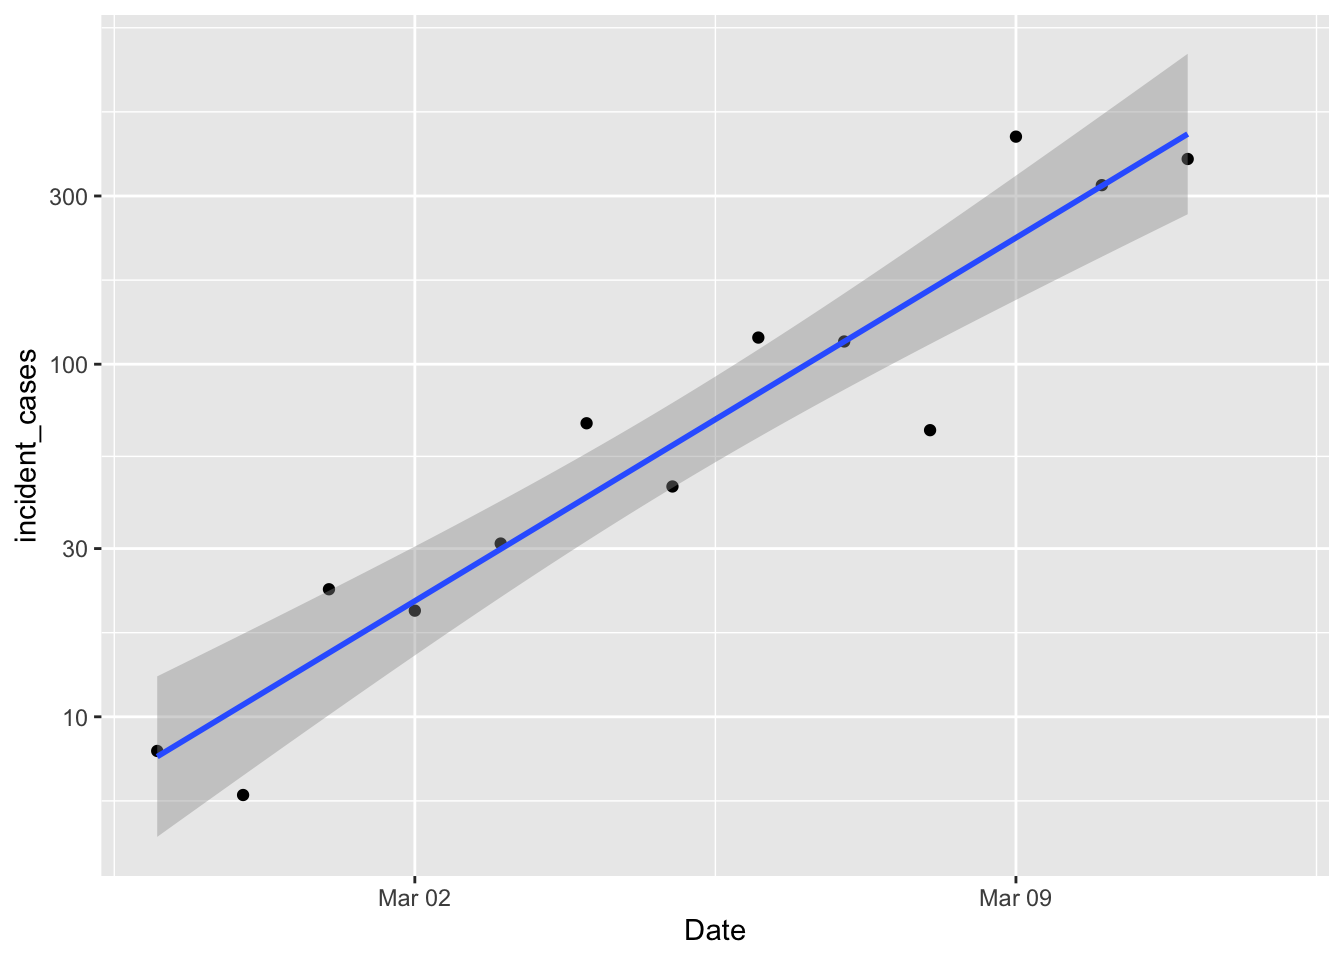
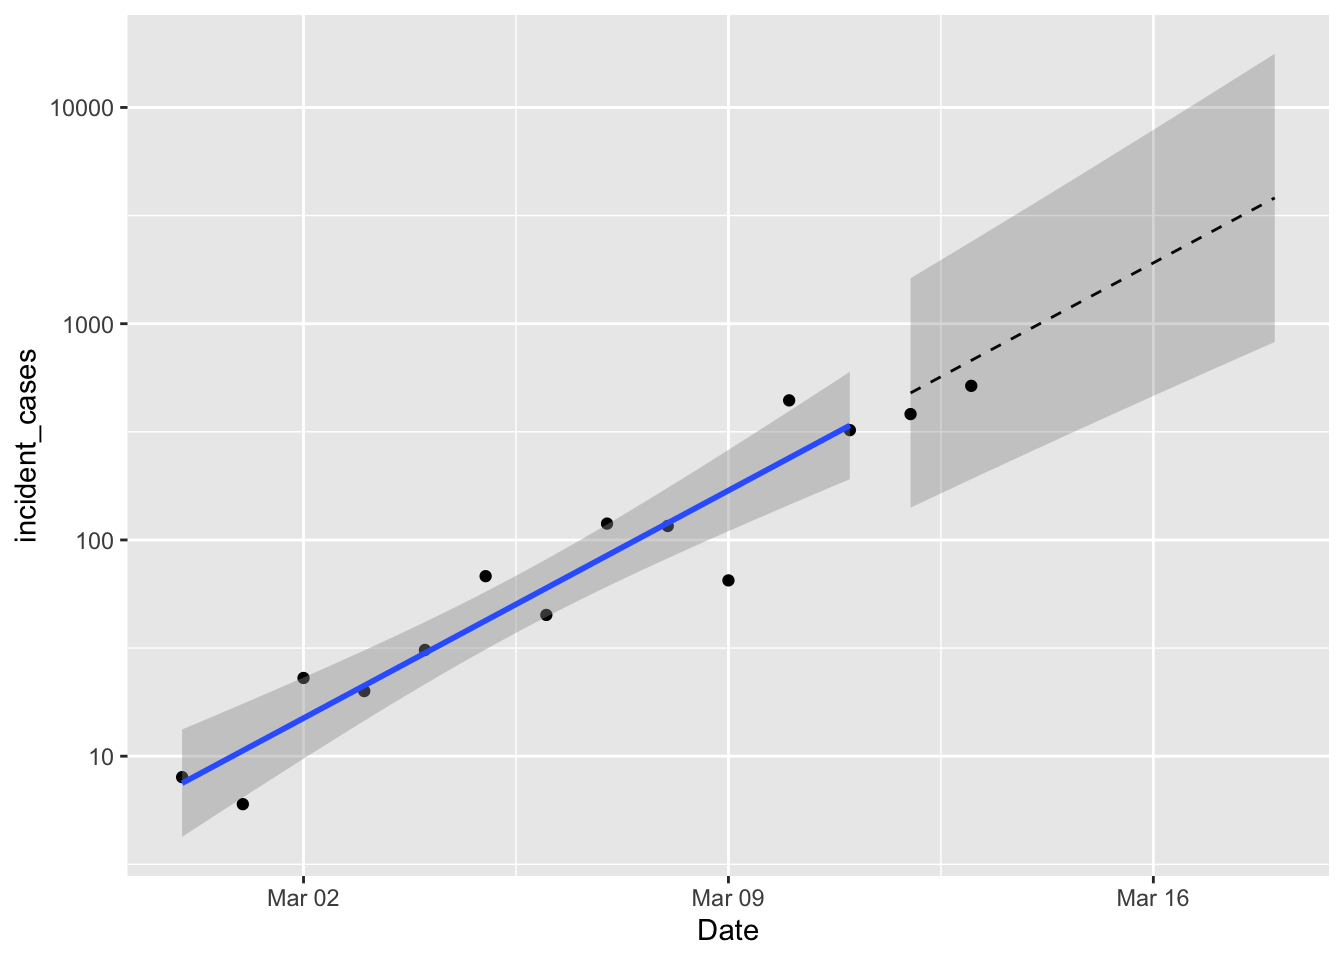
Ready to deploy!

diff --git a/content/post/covid-19_in_R_II.html b/content/post/covid-19_in_R_II.html
@@ -5,7 +5,7 @@ date: '2020-03-14'
 output: 
   html_document:
     code_folding: hide
-draft: yes
+draft: no
 slug: COVID-19_and_R_II
 tags_include:
 - R
@@ -48,7 +48,71 @@ p1</code></pre>
 <p><img src="/post/covid-19_in_R_II_files/figure-html/unnamed-chunk-1-1.png" width="672" /></p>
 <p>Well, fooey. <a href="">CDC reports over 1600 cases</a> for March 13. The
 <a href="https://www.worldometers.info/coronavirus/country/us/">WorldOMeter</a> reports
-over 2000! So I’m not sure what to do at this point. I’m pretty sure my predictions
-from yesterday are at least in the ballpark. If I find a good way to keep on
-top of the numbers I’ll circle back to this. But for now … GIGO.</p>
+over 2000! However, the JHU data seems to have corrected in the
+last 12 hours, so I’ll go with that again. I’ll keep looking for
+new data sources. Another lesson from the past 24 hours – download
+<em>and then save</em> the data! Because the next time it is downloaded it
+might break everything …</p>
+<pre class="r"><code>load(&quot;data/jhu_wide_2020-03-14.Rda&quot;)
+us_confirmed_total &lt;- jhu_wide %&gt;% 
+  rename(province = &quot;Province/State&quot;, 
+         country_region = &quot;Country/Region&quot;) %&gt;% 
+  pivot_longer(-c(province, country_region, Lat, Long), 
+               names_to = &quot;Date&quot;, values_to = &quot;cumulative_cases&quot;) %&gt;% 
+  filter(country_region == &quot;US&quot;) %&gt;% 
+  mutate(Date = mdy(Date)) %&gt;% 
+#  mutate(Date = lubridate::mdy(Date) - lubridate::days(1)) %&gt;% 
+  arrange(province, Date)  %&gt;% 
+  # filter out state rows prior to march 8, and county rows after that. 
+  filter(str_detect(province, &quot;, &quot;) &amp; Date &lt;= &quot;2020-03-9&quot; |
+           str_detect(province, &quot;, &quot;, negate = TRUE) &amp; Date &gt; &quot;2020-03-9&quot;) %&gt;% 
+  group_by(Date) %&gt;% # then group by Date and sum
+  summarize(cumulative_cases = sum(cumulative_cases)) %&gt;% 
+  ungroup() %&gt;% 
+  mutate(incident_cases = c(0, diff(cumulative_cases)))
+
+p1 &lt;- ggplot(data = filter(us_confirmed_total, Date &gt; &quot;2020-02-28&quot;, Date &lt;= &quot;2020-03-11&quot;),
+       mapping = aes(x = Date)) + 
+#  geom_line(mapping = aes(y = incident_cases)) + 
+  geom_point(mapping = aes(y = incident_cases)) + 
+  scale_y_log10() + 
+  geom_smooth(mapping = aes(y = incident_cases), method = &quot;lm&quot;)
+
+us_exp_model &lt;- us_confirmed_total %&gt;% 
+  mutate(log_incident_cases = log10(incident_cases),    # transform the data
+         day = as.numeric(Date - ymd(&quot;2020-02-27&quot;))) %&gt;% # get day relative to Feb 27
+  filter(Date &gt; &quot;2020-02-28&quot;, Date &lt;= &quot;2020-03-11&quot;) %&gt;% 
+  lm(data = .,
+     formula = log_incident_cases ~ day) 
+
+predicted &lt;- tibble(day = 14:20)
+predicted_list &lt;- predict(us_exp_model, newdata = predicted, se.fit = TRUE)
+predicted$fit &lt;- predicted_list$fit # this is klutzy, but I want to see the answer! 
+predicted$se.fit &lt;- predicted_list$se.fit
+predicted &lt;- predicted %&gt;% 
+  mutate(Date = ymd(&quot;2020-2-27&quot;) + day,
+         pred_var = se.fit^2 + predicted_list$residual.scale^2,
+         lpl = 10^(fit - sqrt(pred_var)*qt(0.975, df = 11)),
+         upl = 10^(fit + sqrt(pred_var)*qt(0.975, df = 11)),
+         fit = 10^fit)
+
+p1 + 
+  geom_line(data = predicted,
+            mapping = aes(y = fit),
+            linetype = 2) +
+  geom_ribbon(data = predicted,
+            mapping = aes(ymin = lpl, ymax = upl),
+            alpha = 0.2) +
+  geom_point(data = filter(us_confirmed_total, Date &gt; &quot;2020-03-11&quot;),
+             mapping = aes(y = incident_cases))</code></pre>
+<p><img src="/post/covid-19_in_R_II_files/figure-html/unnamed-chunk-2-1.png" width="672" /></p>
+<p>So not bad! Although if the observations continue to fall below the expected value that would
+indicate some lack of fit. If you take the time to carefully compare these predictions with
+yesterday’s predictions you’ll notice some small discrepancies. As I was wrestling with
+data inconsistencies, I realized that correcting the UTC dates by a whole day was throwing everything
+off. So everything is now shifted over by one day. The estimated coefficients of the model don’t change very much; the rate of growth is still 0.15 day<sup>-1</sup> and the intercept dropped a little bit.
+Still forecasting 823 - 17714 new cases on March 18. That’s bigger than the range I mentioned
+in yesterday’s post, but I forgot about the effect of the logarithmic scale on y when I eyeballed it.</p>
+<p>So, things to do: run different countries that I care about, like Canada, Germany, Australia etc etc.
+Find some additional models to try, and develop a good measure of comparison.</p>
 </div>
